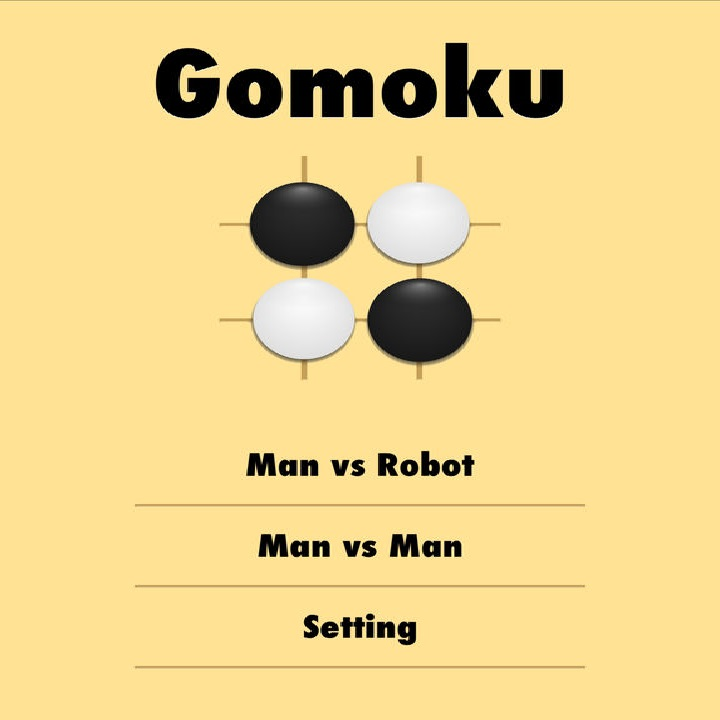
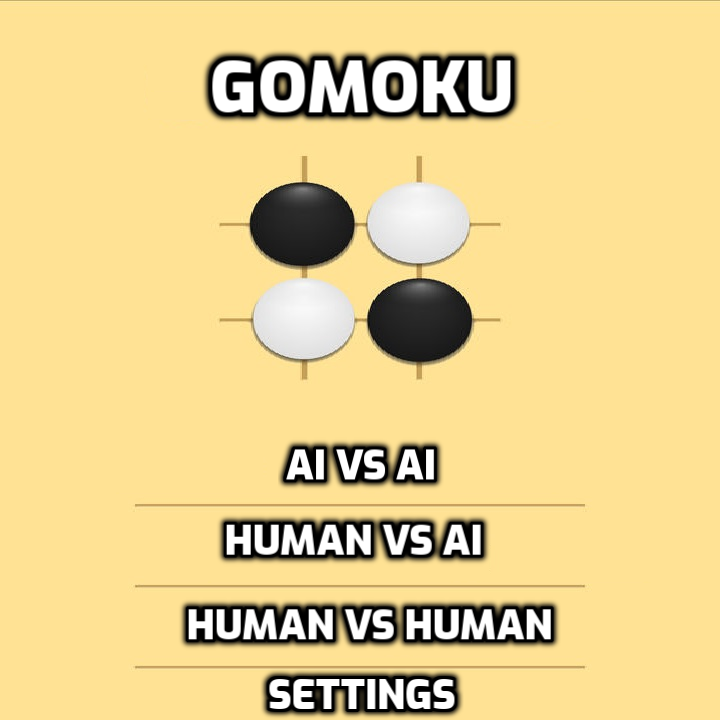
updating GUI and adding settings page

Changed region(s): [[0.2444, 0.825, 0.7944, 1.0], [0.2139, 0.0611, 0.7944, 0.1833], [0.3056, 0.6111, 0.7028, 0.7944]]

diff --git a/py_game_go.py b/py_game_go.py
@@ -44,6 +44,7 @@ class PyGameGo:
             self.screen = pygame.display.set_mode(size=MAIN_WINDOW_SIZE)
             self.go_board = pygame.image.load("ressources/images/goboard.png")
             self.go_menu = pygame.image.load("ressources/images/gomenu.png")
+            self.go_settings = pygame.image.load("ressources/images/gosettings.png")
             self.go_sound_off = pygame.transform.scale(
                 pygame.image.load("ressources/images/sound-icon/sound_off.png"),
                 self.sound_icon_size,
@@ -70,31 +71,65 @@ class PyGameGo:
 
         self.player: Player = None
 
-    def update_sound_status(self, sound_status: bool):
+    def update_sound_status(self, sound_status: bool, background_page):
         self.sound_status = sound_status
         if self.sound_status is True:
             pygame.mixer.music.set_volume(0.05)
             pygame.mixer.music.play(-1)
         else:
             pygame.mixer.music.stop()
-        self.display_sound_icon()
 
-    def display_sound_icon(self):
-        self.screen.blit(self.go_menu, self.start_point)
+    def display_page(self, background_page, return_button=False, sound_status=False):
+        self.screen.blit(background_page, self.start_point)
 
-        if self.sound_status is True:
-            self.screen.blit(self.go_sound_on, (MAIN_WINDOW_SIZE[0] - self.sound_icon_size[0], 0))
-        else:
-            self.screen.blit(
-                self.go_sound_off,
-                (MAIN_WINDOW_SIZE[0] - self.sound_icon_size[0], 0),
-            )
+        if return_button:
+            self.screen.blit(self.return_on, (0, 0))
+        if sound_status:
+            if self.sound_status is True:
+                self.screen.blit(
+                    self.go_sound_on, (MAIN_WINDOW_SIZE[0] - self.sound_icon_size[0], 0)
+                )
+            else:
+                self.screen.blit(
+                    self.go_sound_off,
+                    (MAIN_WINDOW_SIZE[0] - self.sound_icon_size[0], 0),
+                )
         pygame.display.flip()
+
+    def settings(self):
+        self.display_page(background_page=self.go_settings, return_button=True, sound_status=True)
+        while 1:
+            for event in pygame.event.get():
+                if event.type == pygame.QUIT:
+                    sys.exit()
+
+                if event.type == pygame.MOUSEBUTTONDOWN:
+                    print("event pos = ", event.pos[1])
+                    # Return to menu button
+                    if (
+                        event.pos[1] >= 0
+                        and event.pos[1] <= self.return_icon_size[0]
+                        and event.pos[0] >= 0
+                        and event.pos[0] <= self.return_icon_size[1]
+                    ):
+                        return 0
+                    # click on sound icon
+                    elif (
+                        event.pos[1] <= self.sound_icon_size[1]
+                        and event.pos[1] >= 0
+                        and event.pos[0] >= MAIN_WINDOW_SIZE[0] - self.sound_icon_size[0]
+                        and event.pos[0] <= MAIN_WINDOW_SIZE[0]
+                    ):
+                        self.update_sound_status(not self.sound_status, self.go_settings)
+                        self.display_page(
+                            background_page=self.go_settings, return_button=True, sound_status=True
+                        )
 
     def menu(self, go_rules: GoRules):
         self.screen.blit(self.go_menu, self.start_point)
-        self.update_sound_status(self.sound_status)
+        self.update_sound_status(self.sound_status, self.go_menu)
         pygame.display.flip()
+        self.display_page(background_page=self.go_menu, return_button=False, sound_status=True)
         self.player = go_rules.player_list[0]
         while 1:
             for event in pygame.event.get():
@@ -102,22 +137,31 @@ class PyGameGo:
                     sys.exit()
                 if event.type == pygame.MOUSEBUTTONDOWN:
                     # click on playing AI vs AI button
-                    if event.pos[1] <= 720 and event.pos[1] >= 585:
+                    if event.pos[1] <= 505 and event.pos[1] >= 300:
+                        print("AI vs AI clicked.")
                         go_rules.player_list[0].player_type = 1
                         go_rules.player_list[1].player_type = 1
                         go_rules.ai_versus = 1
                         self.playing(go_rules=go_rules)
-                        self.display_sound_icon()
-                    # click on playing HUMAN vs AI button
-                    if event.pos[1] <= 500 and event.pos[1] >= 415:
+                    # click on playing human vs AI button
+                    if event.pos[1] <= 585 and event.pos[1] > 505:
+                        print("Human vs AI clicked.")
                         go_rules.player_list[1].player_type = PlayerType.AI.value
                         self.playing(go_rules=go_rules)
-                        self.display_sound_icon()
-                    # click on playing vs human button
-                    if event.pos[1] <= 585 and event.pos[1] >= 505:
+                    # click on playing human vs human button
+                    if event.pos[1] <= 665 and event.pos[1] > 585:
+                        print("Human vs Human clicked.")
                         go_rules.player_list[1].player_type = PlayerType.HUMAN.value
                         self.playing(go_rules=go_rules)
-                        self.display_sound_icon()
+                    # click on settings
+                    if event.pos[1] <= 765 and event.pos[1] > 665:
+                        print("Settings clicked.")
+                        go_rules.player_list[1].player_type = PlayerType.HUMAN.value
+                        self.settings()
+                    self.display_page(
+                        background_page=self.go_menu, return_button=False, sound_status=True
+                    )
+
                     # click on sound icon
                     if (
                         event.pos[1] <= self.sound_icon_size[1]
@@ -126,7 +170,10 @@ class PyGameGo:
                         and event.pos[0] <= MAIN_WINDOW_SIZE[0]
                     ):
                         self.screen.blit(self.go_menu, self.start_point)
-                        self.update_sound_status(not self.sound_status)
+                        self.update_sound_status(not self.sound_status, self.go_menu)
+                        self.display_page(
+                            background_page=self.go_menu, return_button=False, sound_status=True
+                        )
 
     def win(self, go_rules: GoRules):
         self.moves_count = 0

diff --git a/gomoku_rust_lib/src/heuristic.rs b/gomoku_rust_lib/src/heuristic.rs
@@ -24,6 +24,7 @@ pub fn heuristic(state: &mut State) -> i32 {
     }
     state.board_info = board_state_info.clone();
 
+    // Instant return move
     // Check if win by capturing stone
     let stone_captured = check_move_is_capturing_stone(&state.axes[0], &state.axes[1]);
     unsafe {
@@ -39,8 +40,6 @@ pub fn heuristic(state: &mut State) -> i32 {
             return heuristic_ratios::HEURISTIC_CAPTURE_TEN_STONE;
         }
     }
-
-    // // Instant return move
 
     // // Move capture opponent five in a row
 
@@ -58,7 +57,7 @@ pub fn heuristic(state: &mut State) -> i32 {
                 == Some(&"five")
                 && board_state_info.pattern_axe[pattern_index].1 != 3
             {
-                // Checking if undefeatable 5
+                // Checking if undefeatable 5, pattern should be (0, 5)
                 if board_state_info.pattern_axe[pattern_index].1 == 5 {
                     return heuristic_ratios::HEURISTIC_UNBLOCKABLE_FIVE_IN_A_ROW;
                 } else {
